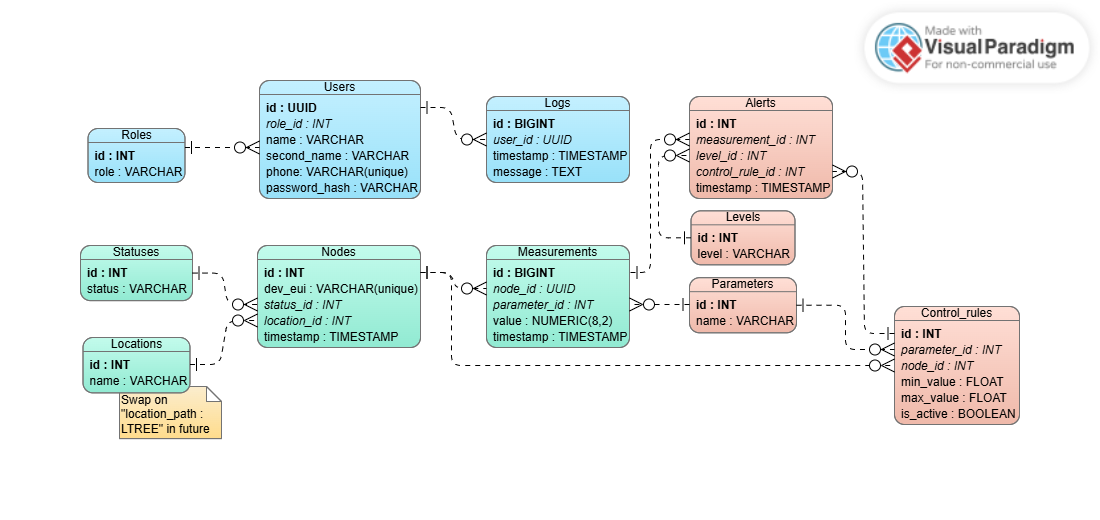
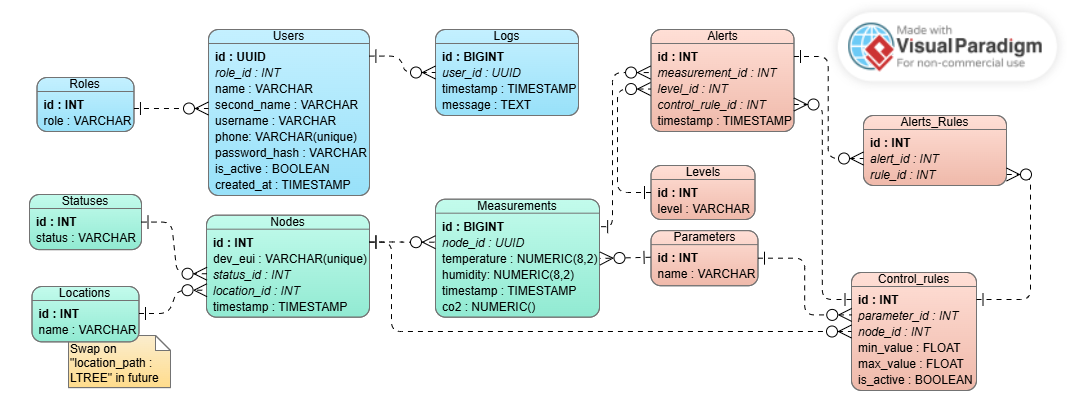
user.java fix

diff --git a/src/main/java/com/farm/monitor/entities/User.java b/src/main/java/com/farm/monitor/entities/User.java
@@ -7,6 +7,7 @@ import org.hibernate.annotations.CreationTimestamp;
 
 import com.farm.monitor.enums.Role;
 
+import jakarta.persistence.CheckConstraint;
 import jakarta.persistence.Column;
 import jakarta.persistence.Entity;
 import jakarta.persistence.EnumType;
@@ -43,8 +44,12 @@ public class User {
     @Column(name = "username", nullable = false, unique = true)
     private String username;
 
-    @Column(name = "phone")
+    @Column(name = "phone", nullable = false, unique = true, check = 
+    @CheckConstraint(name = "phone_check", constraint = "phone ~ '^\\+?[1-9]\\d{1,14}$'"))
     private String phone;
+
+    @Column(name = "telegram_chat_id", unique = true)
+    private String telegramChatId;
 
     @Column(name = "password_hash", nullable = false)
     private String passwordHash;
@@ -52,7 +57,7 @@ public class User {
     @Column(name = "is_active", nullable = false)
     private boolean isActive = true;
 
-    @Column(name = "created_at", nullable = false, columnDefinition = "TIMESTAMP DEFAULT CURRENT_TIMESTAMP")
+    @Column(name = "created_at", nullable = false, updatable = false)
     @CreationTimestamp
     private Instant createdAt;
 }